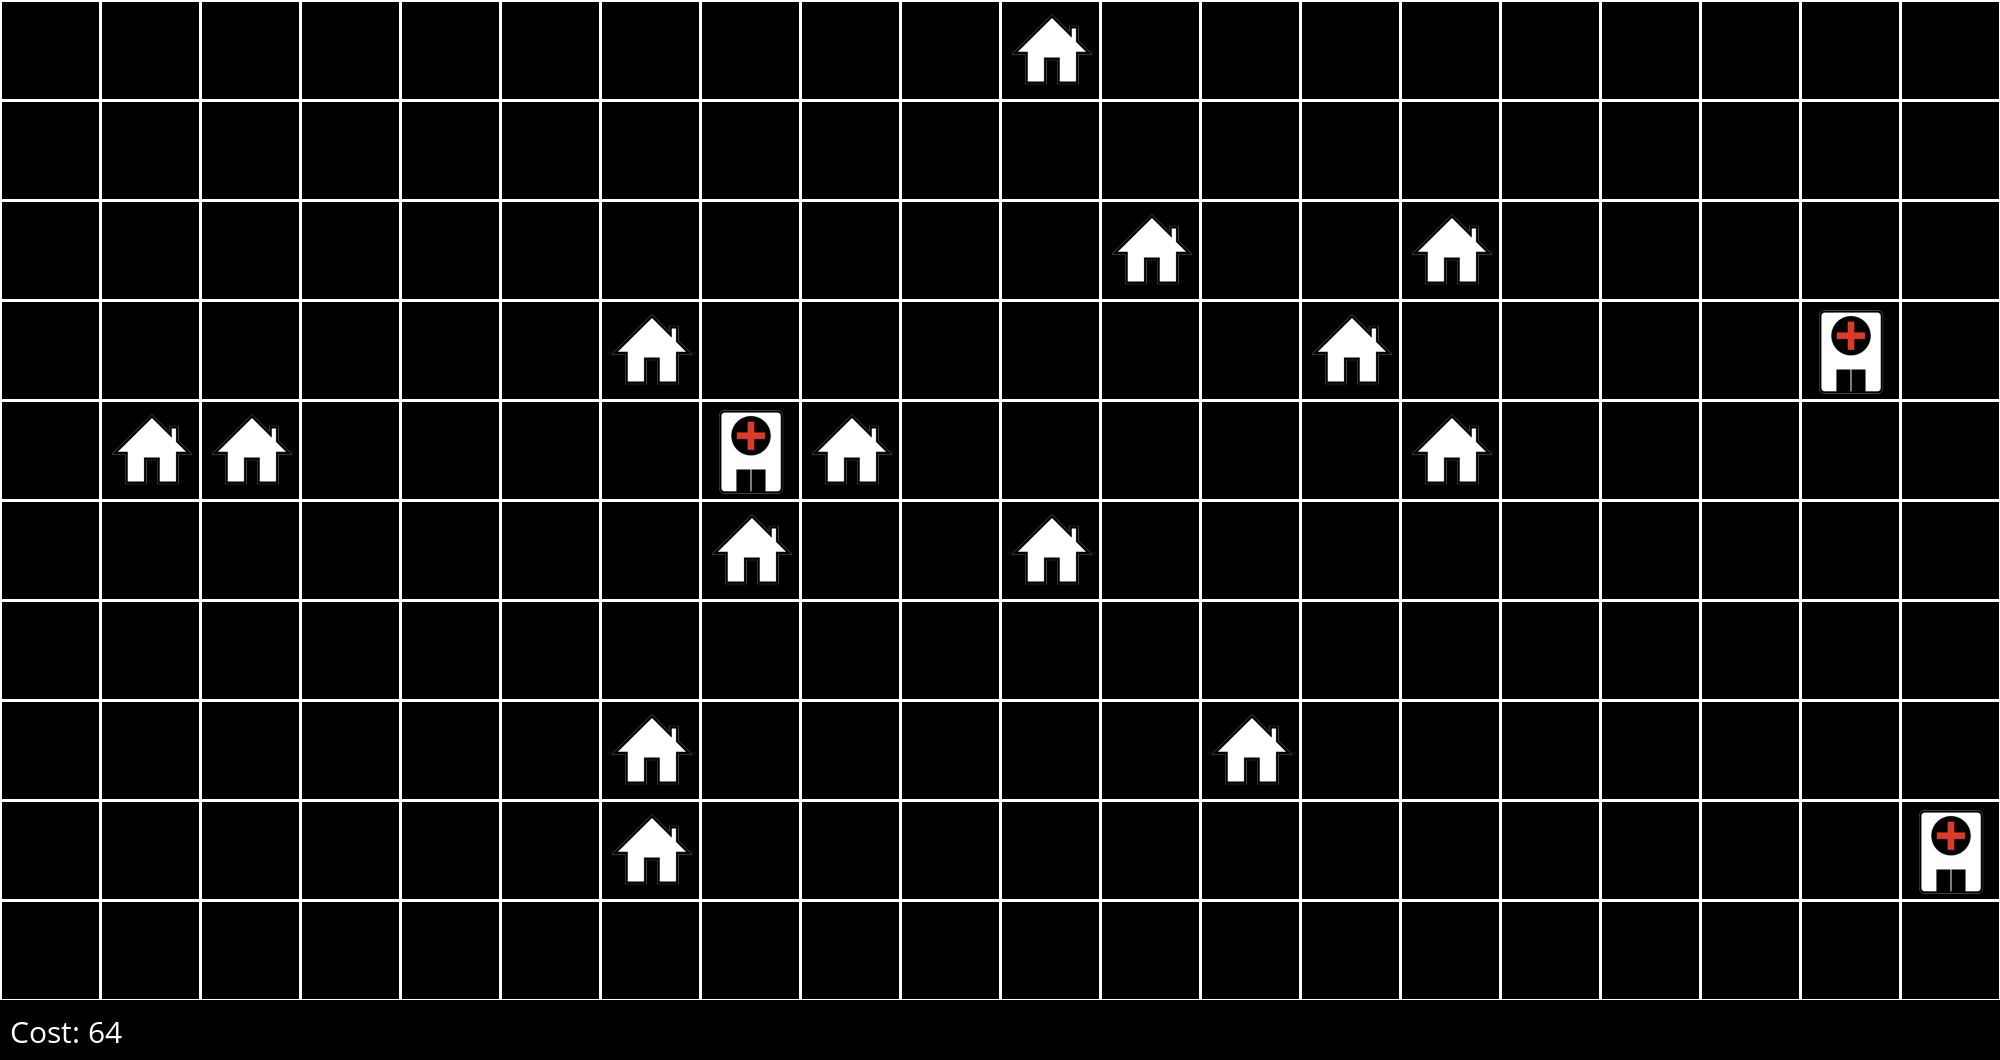
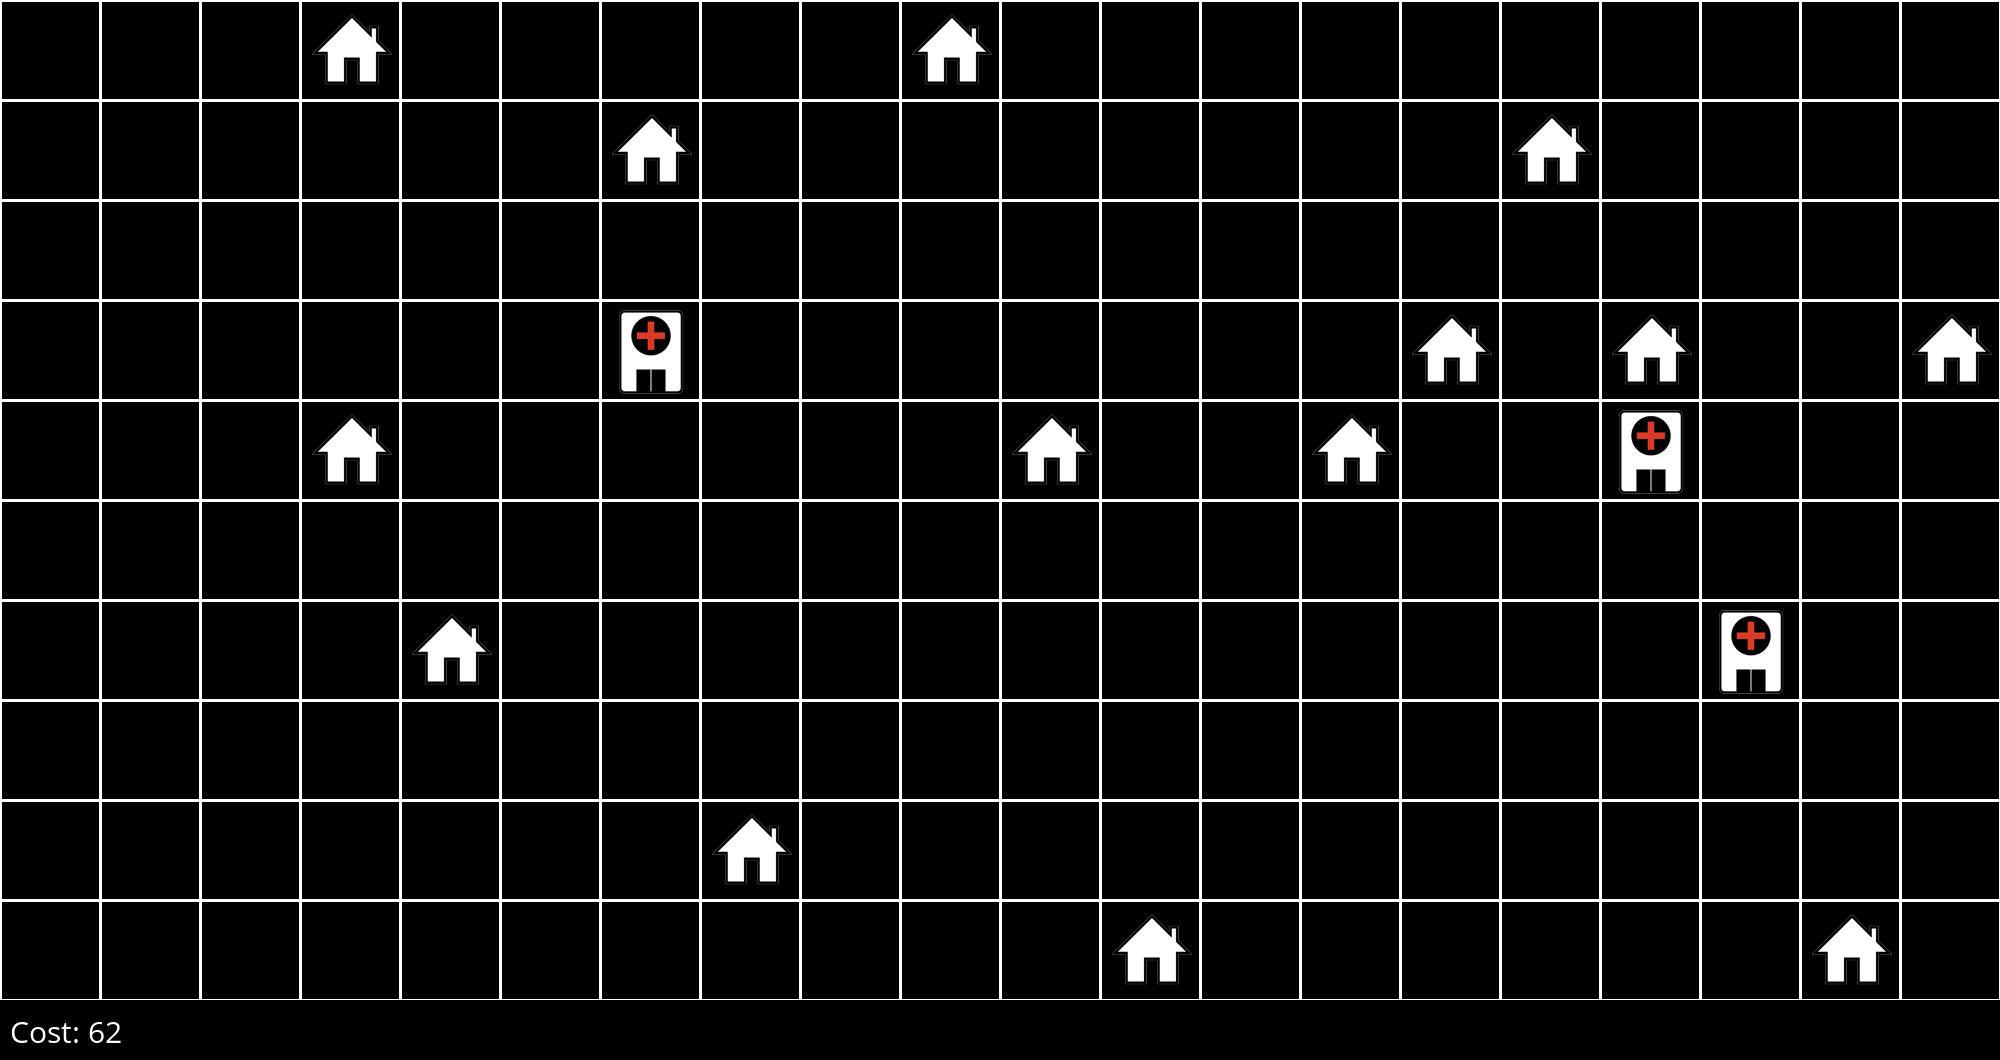
"Hill climbing finished"

diff --git a/Inteligencia Artificial/Taller 5 -Hill Climbing/hospitals.py b/Inteligencia Artificial/Taller 5 -Hill Climbing/hospitals.py
@@ -28,7 +28,7 @@ class Space():
         )
 
         # Remover todas las casas y hospitales
-        # Elimina cualquier posición ya ocuapada por una casa
+        # Elimina cualquier posición ya ocuapada por una casa u hospital
         for house in self.houses:
             candidates.remove(house)
         for hospital in self.hospitals:
@@ -44,7 +44,7 @@ class Space():
         # la ubicación de los hospitales iniciales son aleatorios
         self.hospitals = set()
         for i in range(self.num_hospitals):
-            # añade posiciones aleatorias para los hospitales
+            # añade posiciones aleatorias para los hospitales en las casillas libres
             self.hospitals.add(random.choice(list(self.available_spaces())))
         if log:
             # Imprime el estado inicial y su costo
@@ -64,24 +64,24 @@ class Space():
 
                 # Considere todos los vecinos de un hospital que no sean una casa u otro hospital
                 for replacement in self.get_neighbors(*hospital):
-                    
+                
                     # Generar un conjunto vecino de hospitales
                     neighbor = self.hospitals.copy() # copia todo el conjunto de hospitales
                     neighbor.remove(hospital) # remueve el hospital actual que se esta analizando
                     neighbor.add(replacement) # añade uno de los vecinos de ese hospital
 
-                    # Compruebo que vecino es mejor
-                    cost = self.get_cost(neighbor) # costo de la distancia de un vecion al resto de vecinos
+                    # Trata de hallar el menor costo para cada hospital ya sea moviendose o permaneciendo en el mismo sitio
+                    cost = self.get_cost(neighbor) # costo de la distancia actual de los hospitales a las casas
                     if best_neighbor_cost is None or cost < best_neighbor_cost: # si se encuentra un costo más corto
                         best_neighbor_cost = cost # se actualiza el mejor costo
                         best_neighbors = [neighbor] # nueva lista de mejores vecinos
-        
-                    elif best_neighbor_cost == cost: # si el costo es igual guarda este vecino en la lista de mejores vecinos
-                        best_neighbors.append(neighbor)
+                        
+                    elif best_neighbor_cost == cost: # si el costo es iguall mejor costo
+                        best_neighbors.append(neighbor) # estos vecinos son los mejores
 
-            # Si ninguno de los vecionos es mejor que el estado actual 
+            # Si el costo anterior es menor o igual nuevo mejor costo hallado entonces se termina el programa
             if best_neighbor_cost >= self.get_cost(self.hospitals):
-                return self.hospitals
+                return self.hospitals # devuelve el estado de los hospitales mejor ubicados
 
             # Mudarse a un vecino de mayor valor
             else:
@@ -93,8 +93,10 @@ class Space():
             if image_prefix:
                 self.output_image(f"{image_prefix}{str(count).zfill(3)}.png")
 
+    # hill climbing aleatorio
     def random_restart(self, maximum, image_prefix=None, log=False):
-        """Repeats hill-climbing multiple times."""
+        """Repitel el hill climbing multiples veces para hallar distintas distribuciones dado un 
+        numero de casas, hospitales y un espacio definido."""
         best_hospitals = None
         best_cost = None
 
@@ -102,18 +104,20 @@ class Space():
         for i in range(maximum):
             hospitals = self.hill_climb()
             cost = self.get_cost(hospitals)
+            # Si el costo es mejor que el mejor costo actual entonces encontre el mejor costo
             if best_cost is None or cost < best_cost:
                 best_cost = cost
                 best_hospitals = hospitals
                 if log:
                     print(f"{i}: Found new best state: cost {cost}")
             else:
+                # si no solo encontre un nuevo estado
                 if log:
                     print(f"{i}: Found state: cost {cost}")
 
             if image_prefix:
                 self.output_image(f"{image_prefix}{str(i).zfill(3)}.png")
-
+        # Devuelve la posicion de los hospitales mejor ubicados
         return best_hospitals
 
     def get_cost(self, hospitals):
@@ -206,7 +210,7 @@ for i in range(15):
     s.add_house(random.randrange(s.height), random.randrange(s.width))
 
 # Use local search to determine hospital placement
-hospitals = s.hill_climb(image_prefix="hospitals", log=True)
+#hospitals = s.hill_climb(image_prefix="hospitals", log=True)
 
 # Use local search to determine hospital placementhospitals = s.random_restart(20,image_prefix="hospitals", log = True)#
-#hospitals = s.random_restart(200,image_prefix="hospitals", log = True)
+hospitals = s.random_restart(200,image_prefix="hospitals", log = True)
